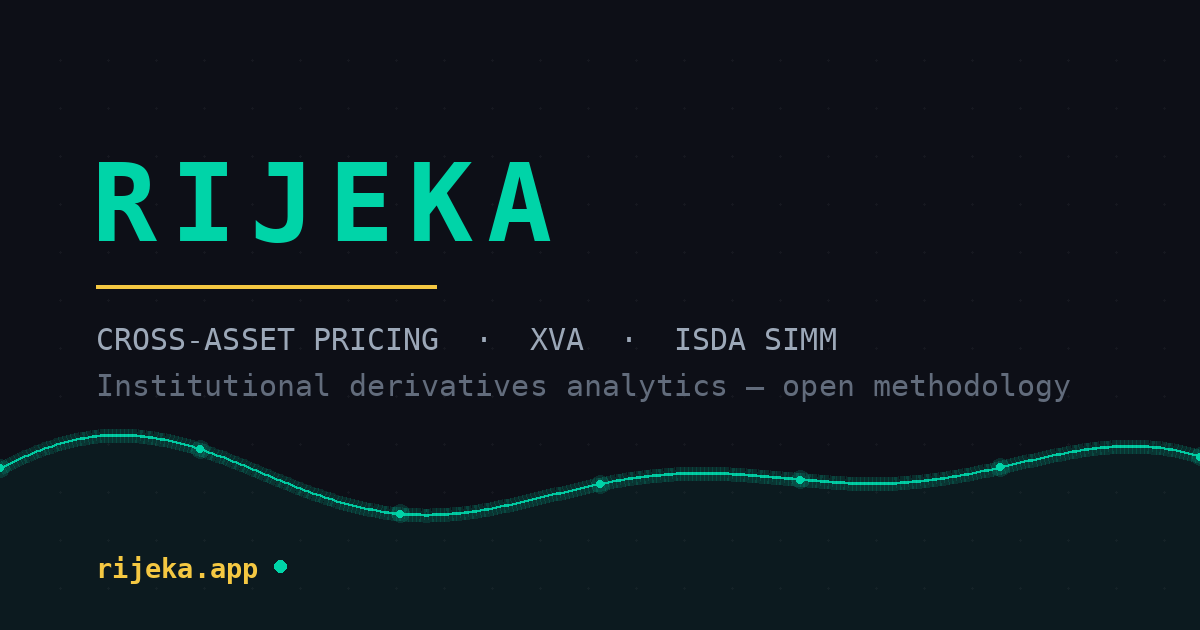
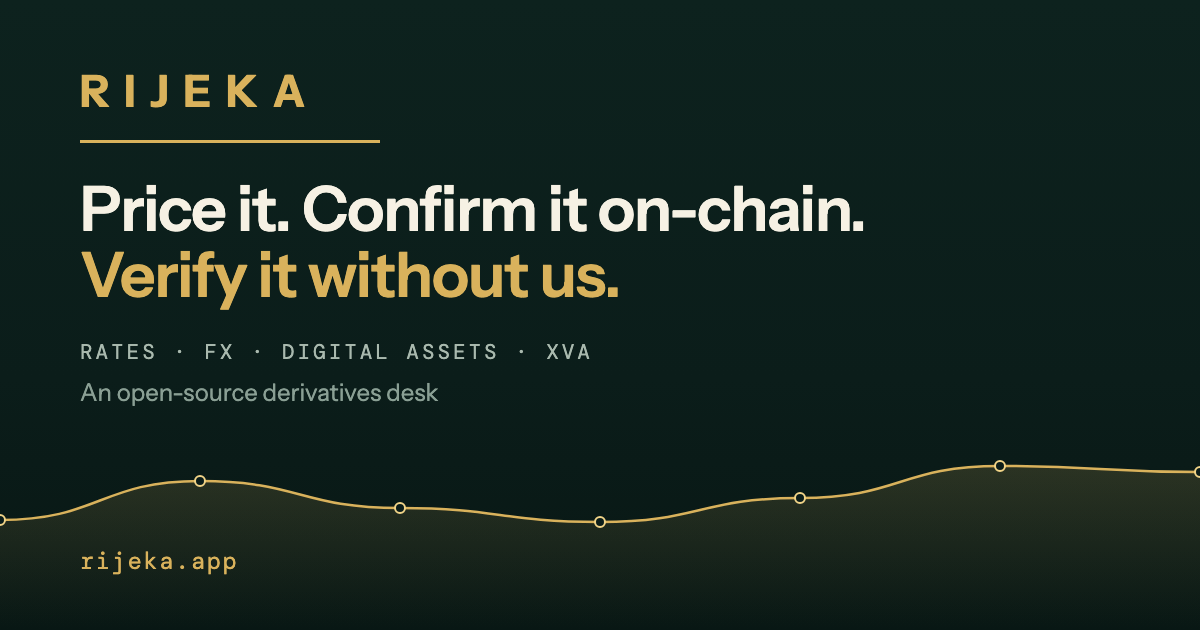
The verifier and the link-preview image in the app's colours; the preview no longer names ISDA SIMM
The verifier's change is its style block only (15 lines): the app's grounds, type and rules; a passed check is
green, a caution amber, a failure coral, and brass is the one action, VERIFY. No script, markup, library or
registry line is touched, and the page still loads nothing from a font host. Its 27 browser cases pass.

The link-preview image (og-image.png) said "CROSS-ASSET PRICING · XVA · ISDA SIMM". Rijeka does not compute or
include ISDA SIMM, so the picture is redrawn in the app's colours without it.

Lessons of the landing and tool-page reviews written into Iris's and Vera's definitions.

diff --git a/chain/verify/index.html b/chain/verify/index.html
@@ -12,26 +12,26 @@
         crossorigin="anonymous"></script>
 <style>
   :root{
-    --bg:#000; --panel:#0C0C0C; --line:#1E1E1E; --line2:#2A2A2A;
-    --fg:#F0F0F0; --mut:#666; --dim:#333;
-    --ok:#00D4A8; --bad:#FF6B6B; --warn:#F5C842; --link:#4A9EFF;
-    --mono:'IBM Plex Mono',ui-monospace,SFMono-Regular,Menlo,monospace;
-    --sans:'IBM Plex Sans',ui-sans-serif,system-ui,-apple-system,sans-serif;
+    --bg:#0b1d1a; --panel:#102723; --line:#24372f; --line2:#43544a;
+    --fg:#e9e3d3; --mut:#8a9f94; --dim:#7b9388;
+    --ok:#8fe0ae; --brass:#d9b25c; --bad:#f0828c; --warn:#e9975a; --link:#8fc1e6;
+    --mono:'DM Mono',ui-monospace,SFMono-Regular,Menlo,monospace;
+    --sans:'Instrument Sans',ui-sans-serif,system-ui,-apple-system,sans-serif;
   }
   *{box-sizing:border-box}
   body{margin:0;background:var(--bg);color:var(--fg);font-family:var(--sans);font-size:14px;line-height:1.6}
   .wrap{max-width:980px;margin:0 auto;padding:40px 16px 80px}
   h1{font-family:var(--mono);font-size:1.25rem;letter-spacing:.06em;margin:0 0 6px;font-weight:700}
   .sub{color:var(--mut);font-size:.8125rem;margin-bottom:28px;max-width:660px}
-  .sub strong{color:#999;font-weight:600}
-  label{display:block;font-family:var(--mono);font-size:.75rem;letter-spacing:.09em;color:var(--ok);margin-bottom:6px}
-  textarea{width:100%;min-height:180px;background:#060606;border:1px solid var(--line);border-radius:3px;
+  .sub strong{color:#a9b9ae;font-weight:600}
+  label{display:block;font-family:var(--mono);font-size:.75rem;letter-spacing:.09em;color:var(--mut);margin-bottom:6px}
+  textarea{width:100%;min-height:180px;background:#081714;border:1px solid var(--line);border-radius:3px;
     color:var(--fg);font-family:var(--mono);font-size:12px;padding:10px;outline:none;resize:vertical}
-  textarea:focus{border-color:rgba(0,212,168,.45)}
+  textarea:focus{border-color:rgba(217,178,92,.45)}
   .row{display:flex;gap:10px;align-items:center;flex-wrap:wrap;margin:12px 0 0}
   select,button{font-family:var(--mono);font-size:.8125rem;border-radius:3px;padding:8px 14px;
     background:transparent;border:1px solid var(--line2);color:var(--fg);cursor:pointer}
-  button.primary{border-color:rgba(0,212,168,.5);background:rgba(0,212,168,.08);color:var(--ok);font-weight:700;letter-spacing:.05em}
+  button.primary{border-color:rgba(217,178,92,.5);background:rgba(217,178,92,.08);color:var(--brass);font-weight:700;letter-spacing:.05em}
   button:disabled{opacity:.45;cursor:not-allowed}
   .hint{color:var(--dim);font-size:.75rem}
   .checks{margin-top:26px}
@@ -47,13 +47,13 @@
   .skip .mark,.skip .t{color:var(--dim)}
   .warn .mark,.warn .t{color:var(--warn)}
   .verdict{margin-top:22px;padding:14px 16px;border-radius:3px;font-family:var(--mono);font-size:.9375rem;font-weight:700;letter-spacing:.04em}
-  .verdict.ok{background:rgba(0,212,168,.07);border:1px solid rgba(0,212,168,.35);color:var(--ok)}
-  .verdict.bad{background:rgba(255,107,107,.07);border:1px solid rgba(255,107,107,.35);color:var(--bad)}
-  .verdict.part{background:rgba(245,200,66,.07);border:1px solid rgba(245,200,66,.35);color:var(--warn)}
+  .verdict.ok{background:rgba(143,224,174,.07);border:1px solid rgba(143,224,174,.35);color:var(--ok)}
+  .verdict.bad{background:rgba(240,130,140,.07);border:1px solid rgba(240,130,140,.35);color:var(--bad)}
+  .verdict.part{background:rgba(233,151,90,.07);border:1px solid rgba(233,151,90,.35);color:var(--warn)}
   .verdict .note{display:block;font-weight:400;font-size:.75rem;color:var(--mut);margin-top:6px;letter-spacing:0}
   a{color:var(--link)}
   footer{margin-top:44px;padding-top:18px;border-top:1px solid var(--line);color:var(--dim);font-size:.75rem}
-  code{font-family:var(--mono);color:#888}
+  code{font-family:var(--mono);color:#8a9f94}
   @media (max-width:640px){ .wrap{padding:24px 16px 60px} }
 </style>
 </head>
@@ -77,7 +77,7 @@
       <option value="https://ethereum-rpc.publicnode.com|1">Ethereum mainnet · publicnode</option>
       <option value="custom|0">Custom RPC…</option>
     </select>
-    <input id="rpcCustom" placeholder="https://your-node" style="display:none;flex:1;min-width:220px;background:#060606;border:1px solid var(--line);border-radius:3px;color:var(--fg);font-family:var(--mono);font-size:12px;padding:8px 10px;outline:none">
+    <input id="rpcCustom" placeholder="https://your-node" style="display:none;flex:1;min-width:220px;background:#081714;border:1px solid var(--line);border-radius:3px;color:var(--fg);font-family:var(--mono);font-size:12px;padding:8px 10px;outline:none">
     <button class="primary" id="run">▶ VERIFY</button>
     <button id="example" title="A real confirmation on Sepolia: an IRS between two demo entities, countersigned with a wallet key Rijeka never held">LOAD EXAMPLE</button>
     <span class="hint" id="status"></span>

diff --git a/.claude/agents/iris.md b/.claude/agents/iris.md
@@ -28,3 +28,6 @@ Rules
 Learned on 11 November 2026 (why this role exists)
 - Nobody owned this. The owner, on the forwards page of Configurations and the new-trade ticket: "the font also does not look consistent. the points pips look different size than outright. who is agent that is responsible to make sure we have consistancy on this." The page set its figures in the interface face at 0.875rem and the ticket set them in mono at 12.5px; sizes in rem grew with the window (the root size was `clamp(14px, 0.75vw, 16px)`) and sizes in px did not, so a figure and the field beside it were two sizes on a wide screen. The source had 53 distinct font sizes, 623 of them in rem, and 179 fonts named by hand.
 - A rule written for one screen ("Type on the ticket") is not a rule for the app. When a rule is written, write it for every screen that shows the same kind of thing, and count what breaks it.
+- A page outside the app (the landing page, the public tool pages, the verifier) is held to the same tokens: read the whole `:root` of `frontend/src/index.css` first, the `--rf-*`, `--purple` and `--cyan` tokens included, before calling a value off-token.
+- Measure sideways scroll at 320px as well as 400px and 1440px. A control's label with a slider inside it overflowed at 320 on the landing page and no picture showed it.
+- Where a page has three states that must not be taken for one another (the verifier's passed, caution and failed), brass is not one of them: brass beside amber differs only in hue. Passed is green, caution amber, failed coral, and brass is the one action.

diff --git a/.claude/agents/vera.md b/.claude/agents/vera.md
@@ -43,6 +43,8 @@ Learned on 10 November 2026 (the ticket, easier to read)
 - A table of figures is read for the widest value it can hold, not the one in the picture: seven and eight digit amounts, a currency printed as a code, a narrow window. A figure that is cut with an ellipsis reads as a smaller number and nothing says so.
 - When a caption moves from each cell to a row's name, check every cell of that row is in the row's unit (a par rate under "BP ON RATE").
 - A mode that writes hidden text out (notes on, show math) is read in the narrowest cell that text can land in.
+- When public copy is checked against the app's roadmap, check the roadmap against the changelog first: the roadmap listed wrong-way risk as next a week after 0.17.0 shipped it, and the landing page repeated it (11 November 2026).
+- Read-only means no file at all: a copy of a live page saved into `_scratch` to compare is a write. Compare in memory or with `diff <(curl …)`.
 
 Rules
 - You are read-only: never edit files, never commit, never push.
